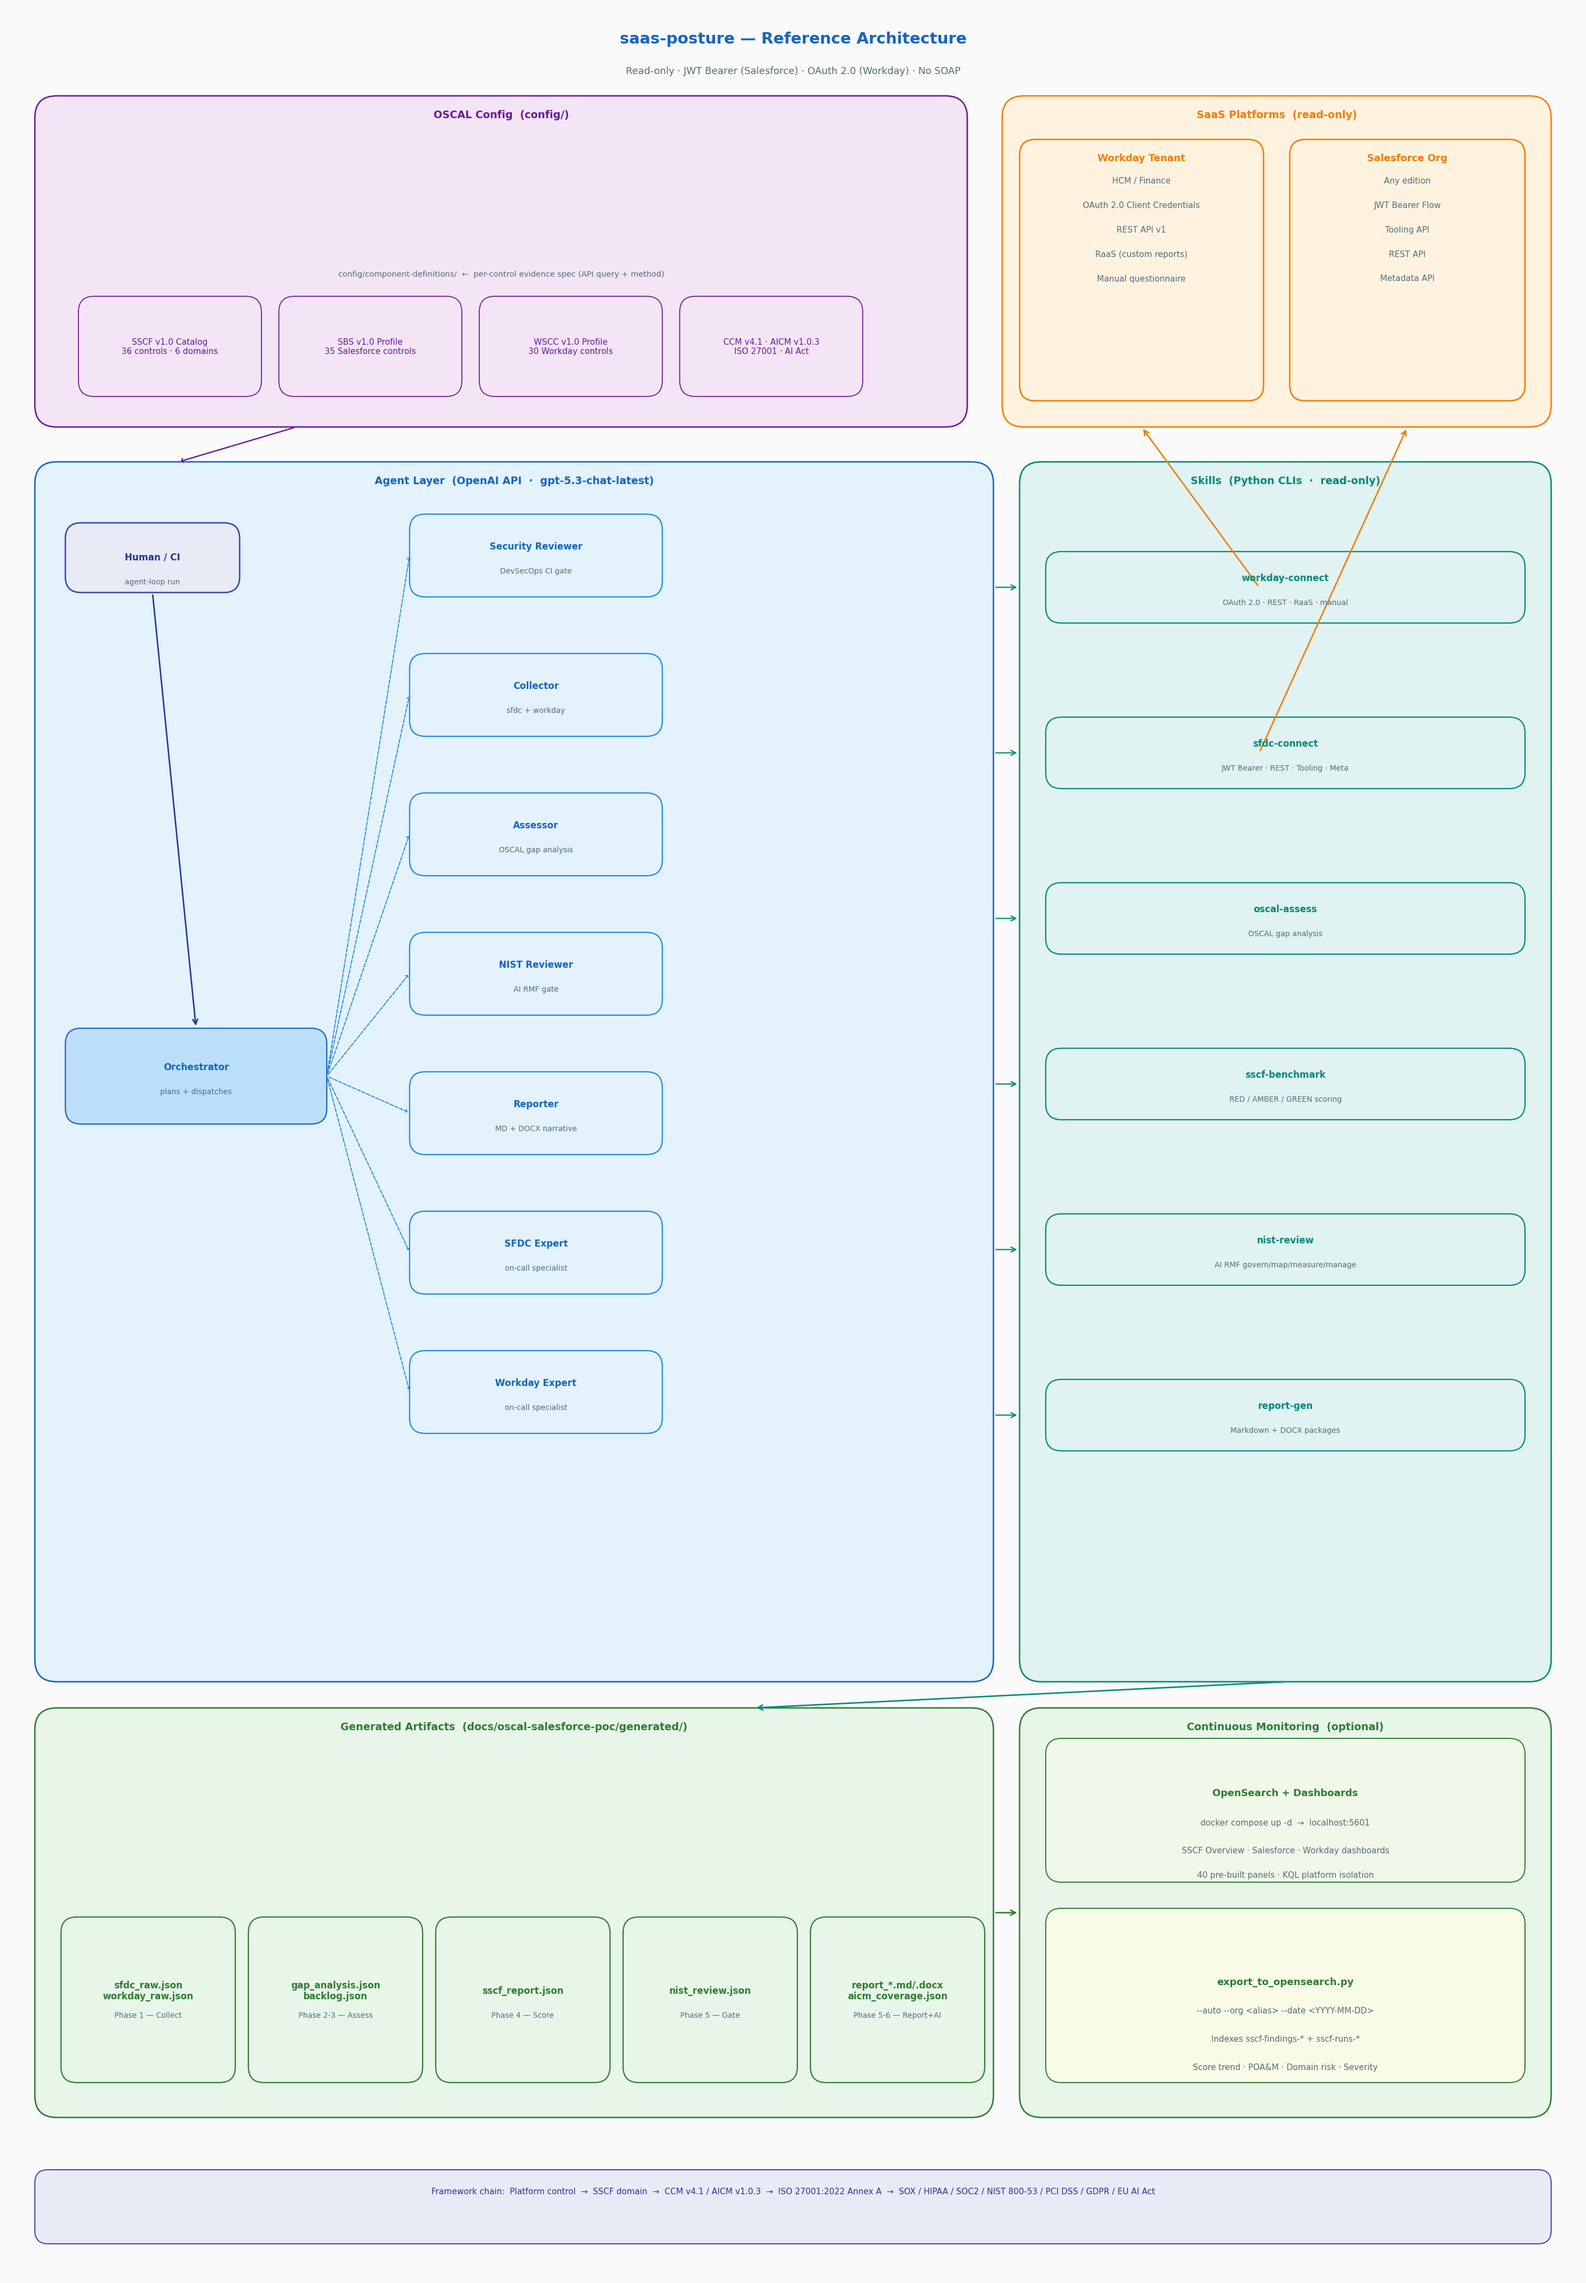
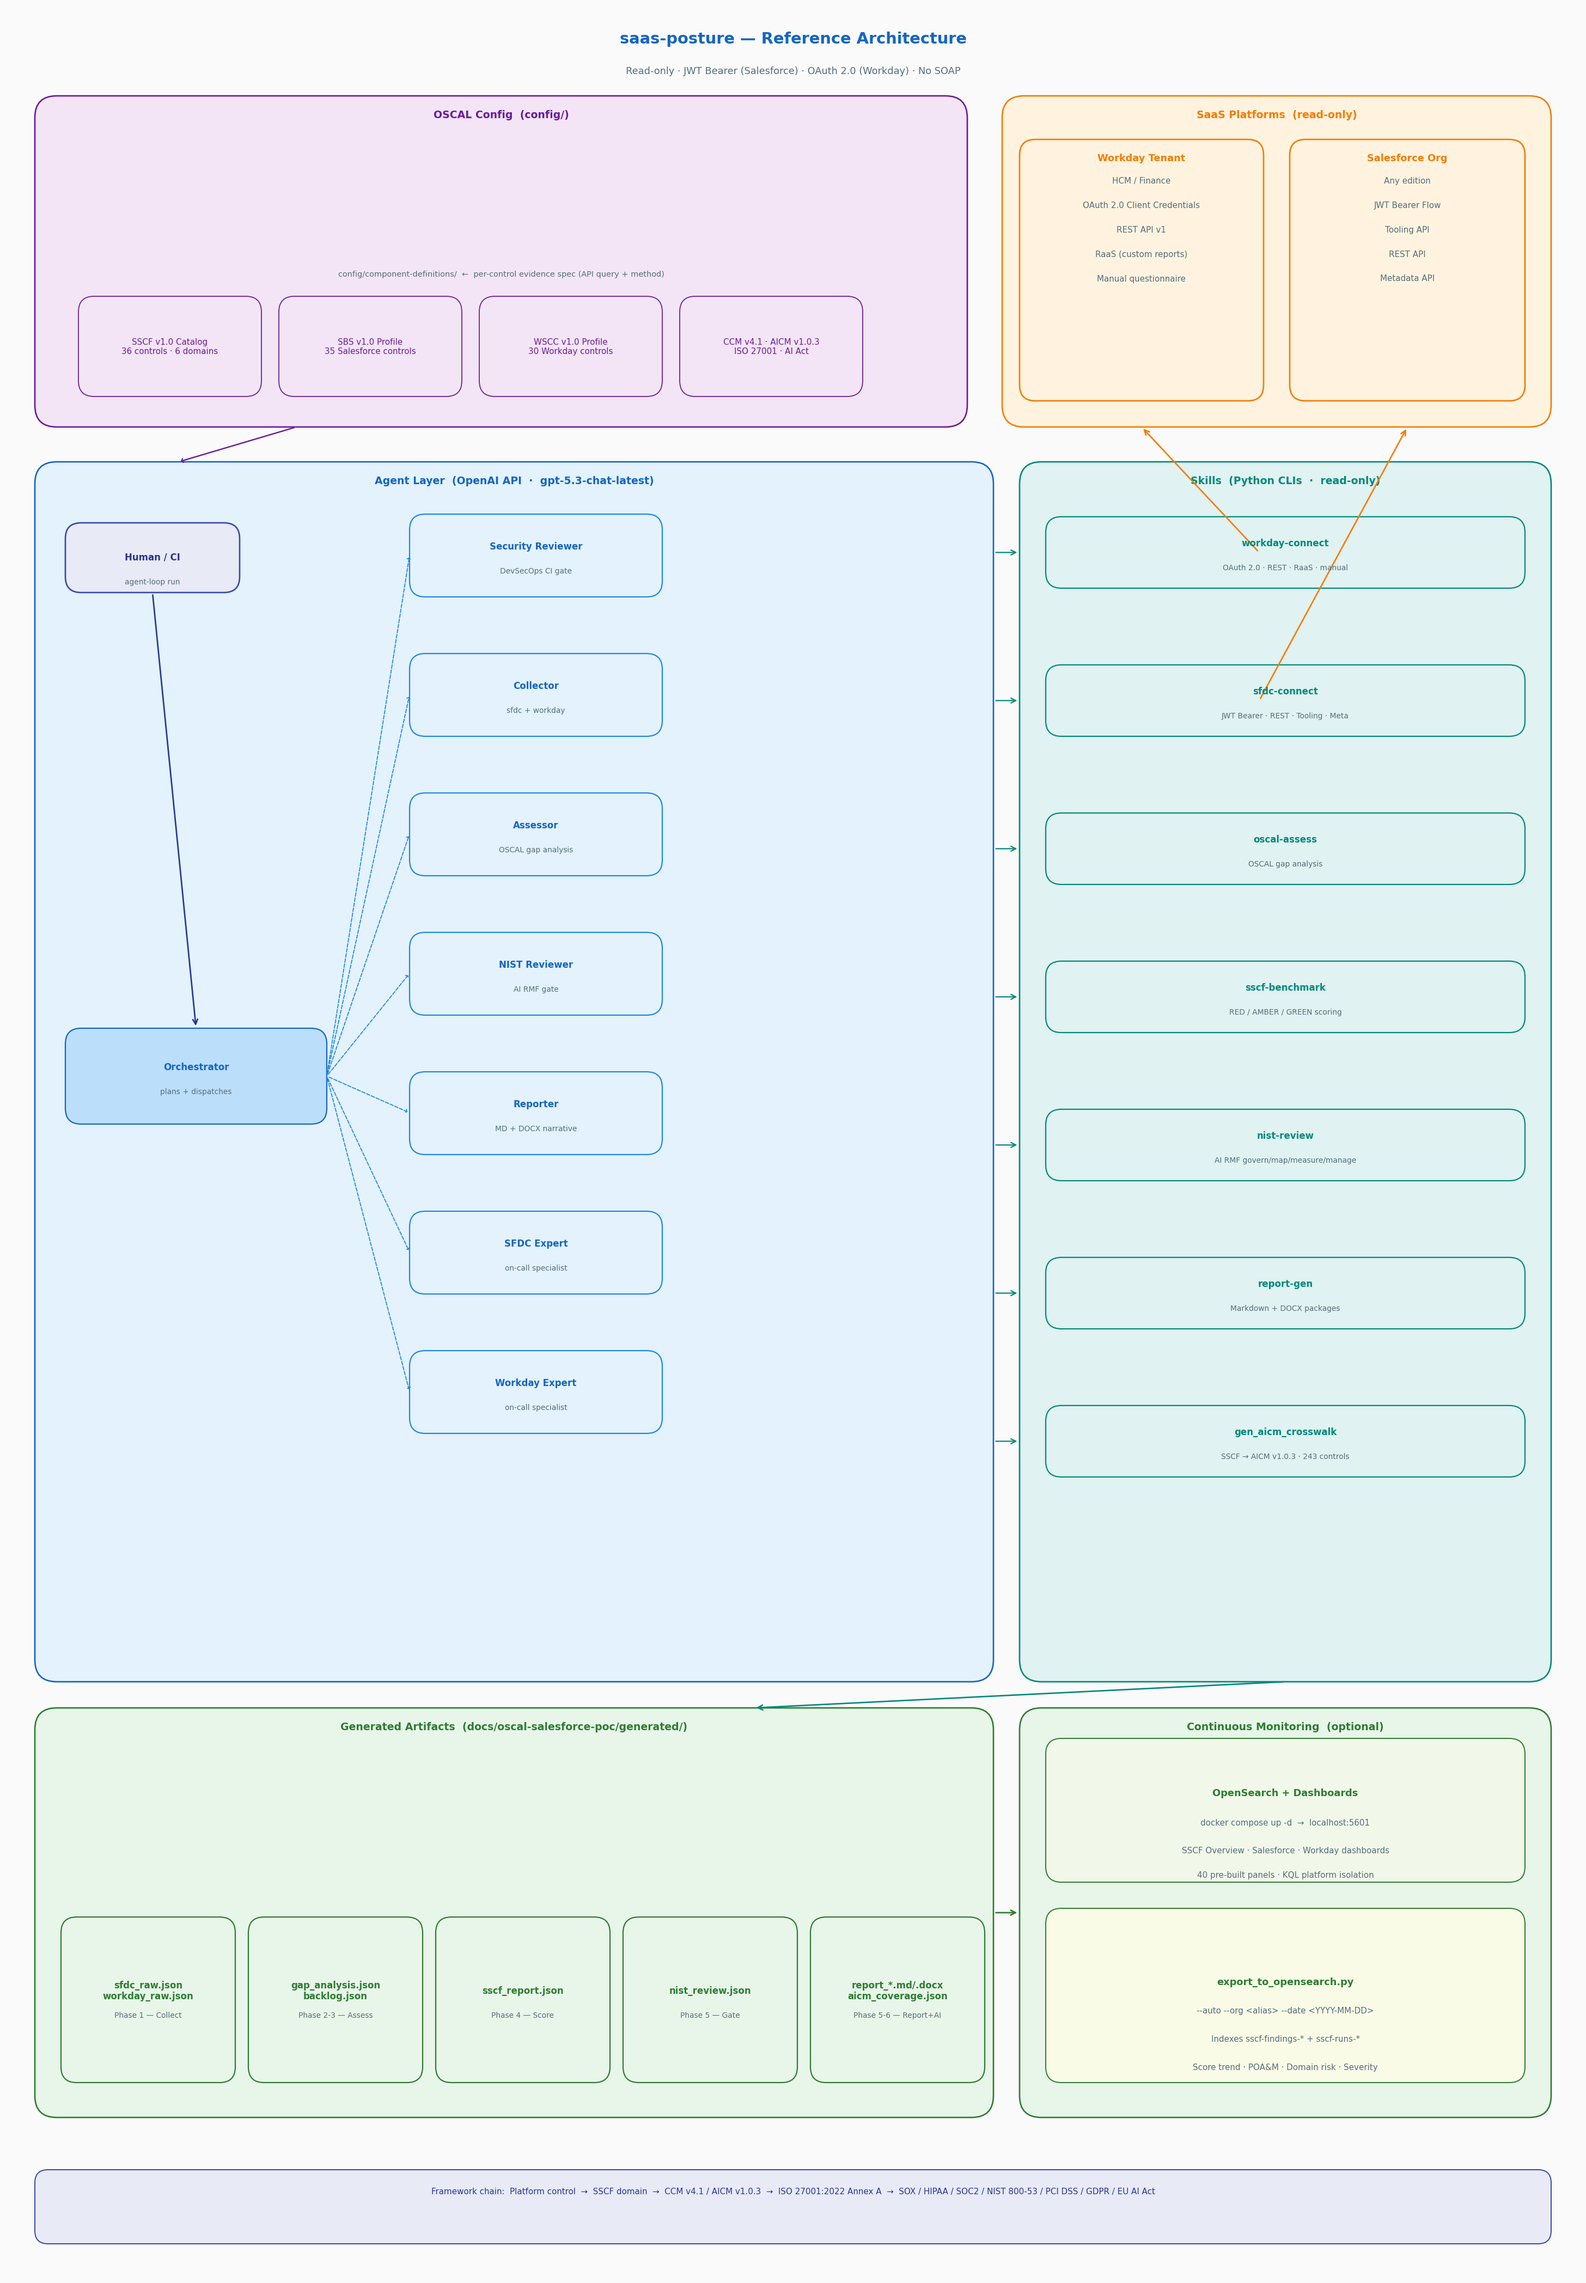
docs: add gen_aicm_crosswalk to architecture diagram + update ASCII pipeline
- gen_architecture_png.py: add gen_aicm_crosswalk as 7th skill box; rebalance
  skill y-positions; arrows updated to match
- docs/architecture.png: regenerated — now shows all 7 skills including AICM
- Architecture-Overview.md: ASCII system diagram updated to show 7-phase pipeline
  including Phase 5 OSCAL scripts (gen_poam, gen_assessment_results, gen_ssp)
  and gen_aicm_crosswalk; collector row updated to mention Workday; skills table
  gains gen_aicm_crosswalk row

diff --git a/scripts/gen_architecture_png.py b/scripts/gen_architecture_png.py
@@ -241,12 +241,13 @@ SEC4_X, SEC4_Y, SEC4_W, SEC4_H = 11.6, 6.8, 6.1, 14.0
 section(SEC4_X, SEC4_Y, SEC4_W, SEC4_H, "Skills  (Python CLIs  ·  read-only)", C_TEAL_LIGHT, C_TEAL, C_TEAL, 8.5)
 
 skills = [
-    ("workday-connect", "OAuth 2.0 · REST · RaaS · manual", 19.4),
-    ("sfdc-connect", "JWT Bearer · REST · Tooling · Meta", 17.5),
-    ("oscal-assess", "OSCAL gap analysis", 15.6),
-    ("sscf-benchmark", "RED / AMBER / GREEN scoring", 13.7),
-    ("nist-review", "AI RMF govern/map/measure/manage", 11.8),
-    ("report-gen", "Markdown + DOCX packages", 9.9),
+    ("workday-connect", "OAuth 2.0 · REST · RaaS · manual", 19.8),
+    ("sfdc-connect", "JWT Bearer · REST · Tooling · Meta", 18.1),
+    ("oscal-assess", "OSCAL gap analysis", 16.4),
+    ("sscf-benchmark", "RED / AMBER / GREEN scoring", 14.7),
+    ("nist-review", "AI RMF govern/map/measure/manage", 13.0),
+    ("report-gen", "Markdown + DOCX packages", 11.3),
+    ("gen_aicm_crosswalk", "SSCF → AICM v1.0.3 · 243 controls", 9.6),
 ]
 for name, sub, y_pos in skills:
     skill_box(SEC4_X + 0.3, y_pos - 0.45, 5.5, 0.82, name, sub)
@@ -302,12 +303,12 @@ label(SEC6_X + 3.05, SEC6_Y + 0.57, "Score trend · POA&M · Domain risk · Seve
 # ─────────────────────────────────────────────────────────────────────────────
 
 # Orchestrator ↔ skills (right)
-for y_pos in [19.4 - 0.04, 17.5 - 0.04, 15.6 - 0.04, 13.7 - 0.04, 11.8 - 0.04, 9.9 - 0.04]:
+for y_pos in [19.8 - 0.04, 18.1 - 0.04, 16.4 - 0.04, 14.7 - 0.04, 13.0 - 0.04, 11.3 - 0.04, 9.6 - 0.04]:
     arrow(SEC3_X + SEC3_W, y_pos, SEC4_X, y_pos, color=C_TEAL, lw=1.0)
 
 # Skills ↔ SaaS platforms
-arrow(SEC4_X + 2.75, 19.4 - 0.04, SEC1_X + 1.6, SEC1_Y, color=C_ORANGE, lw=1.2)  # workday-connect → Workday
-arrow(SEC4_X + 2.75, 17.5 - 0.04, SEC1_X + 4.65, SEC1_Y, color=C_ORANGE, lw=1.2)  # sfdc-connect → Salesforce
+arrow(SEC4_X + 2.75, 19.8 - 0.04, SEC1_X + 1.6, SEC1_Y, color=C_ORANGE, lw=1.2)  # workday-connect → Workday
+arrow(SEC4_X + 2.75, 18.1 - 0.04, SEC1_X + 4.65, SEC1_Y, color=C_ORANGE, lw=1.2)  # sfdc-connect → Salesforce
 
 # Config → Assessor / Collector (left)
 arrow(

diff --git a/docs/wiki/Architecture-Overview.md b/docs/wiki/Architecture-Overview.md
@@ -9,29 +9,30 @@
 ## System Diagram
 
 ```
-┌─────────────────────────────────────────────────────────────────────┐
-│        agent-loop (gpt-5.3-chat-latest orchestrator)                │
-│        OpenAI tool_use ReAct loop, max 14 turns                     │
-└──┬──────────┬──────────┬──────────┬──────────┬──────────┬───────────┘
+┌─────────────────────────────────────────────────────────────────────────────┐
+│         agent-loop  (gpt-5.3-chat-latest orchestrator)                      │
+│         OpenAI tool_use ReAct loop · max 14 turns · 9 agents                │
+└──┬──────────┬──────────┬──────────┬──────────┬──────────┬────────────────────┘
    │          │          │          │          │          │
- ┌─▼──────┐ ┌─▼──────┐ ┌─▼──────┐ ┌─▼──────┐ ┌─▼──────┐ ┌─▼──────────┐
- │sfdc-   │ │workday-│ │oscal-  │ │oscal_  │ │sscf-   │ │nist-       │
- │connect │ │connect │ │assess  │ │gap_map │ │bench-  │ │review      │
- │(collect│ │(collect│ │(assess)│ │ (map)  │ │mark    │ │(validate)  │
- │ SFDC)  │ │  WD)   │ │        │ │        │ │(score) │ │            │
- └────┬───┘ └────┬───┘ └────┬───┘ └────┬───┘ └────┬───┘ └──┬─────────┘
-      │          │          │           │          │          │
- sfdc_raw   workday_raw  gap_analysis backlog  sscf_report nist_review
-  .json       .json        .json       .json     .json       .json
-      └──────────┴──────────┴───────────┴──────────┘
-                                    │
-                          ┌─────────▼──────────┐
-                          │   report-gen        │
-                          │  (gpt-5.3-chat-     │
-                          │   latest)           │
-                          │  app-owner MD       │
-                          │  security MD + DOCX │
-                          └────────────────────┘
+   │ Phase 1  │ Phase 2  │ Phase 3  │ Phase 4  │Phase 5-6 │ Phase 5 (OSCAL docs)
+   ▼          ▼          ▼          ▼          ▼          ▼
+sfdc-      workday-   oscal-     oscal_    sscf-      nist-
+connect    connect    assess     gap_map   benchmark  review
+(SFDC)     (WD)       (assess)   (map)     (score)    (gate)
+   │          │          │           │          │          │
+sfdc_raw  workday_raw gap_analysis backlog  sscf_report nist_review
+ .json      .json       .json       .json     .json       .json
+   └──────────┴──────────┴───────────┴──────────┘
+                              │
+              ┌───────────────┼───────────────────────────────┐
+              │               │                               │
+    ┌─────────▼──────┐ ┌──────▼──────────┐ ┌────────────────▼──────┐
+    │   report-gen    │ │  gen_poam +     │ │  gen_aicm_crosswalk   │
+    │  app-owner MD   │ │  gen_assessment │ │  SSCF → AICM v1.0.3   │
+    │  security MD    │ │  _results +     │ │  243 controls         │
+    │  + DOCX         │ │  gen_ssp        │ │  18 domains           │
+    └─────────────────┘ │  (OSCAL 1.1.2)  │ │  aicm_coverage.json   │
+                        └─────────────────┘ └───────────────────────┘
 ```
 
 ---
@@ -43,7 +44,7 @@
 | Agent | Model | Role | Tools |
 |---|---|---|---|
 | `orchestrator` | gpt-5.3-chat-latest | Routes tasks, manages the ReAct loop, quality gates | All CLI tools |
-| `collector` | gpt-5.3-chat-latest | Extracts Salesforce org config via REST/Metadata API | sfdc-connect |
+| `collector` | gpt-5.3-chat-latest | Extracts Salesforce org config (REST/Metadata) and Workday config (OAuth 2.0/RaaS/REST) | sfdc-connect, workday-connect |
 | `assessor` | gpt-5.3-chat-latest | Maps findings to OSCAL/SBS/SSCF controls | oscal-assess, oscal_gap_map |
 | `reporter` | gpt-5.3-chat-latest | Generates DOCX/MD governance outputs | report-gen |
 | `nist-reviewer` | gpt-5.3-chat-latest | Validates outputs against NIST AI RMF | None (text analysis) |
@@ -72,6 +73,7 @@
 | `sscf-benchmark` | `skills/sscf_benchmark/sscf_benchmark.py` | Both | Maps findings to SSCF domains; calculates domain scores and overall posture (RED/AMBER/GREEN) |
 | `nist-review` | `skills/nist_review/nist_review.py` | Both | Validates assessment outputs against NIST AI RMF 1.0; issues pass/flag/block verdict |
 | `report-gen` | `skills/report_gen/report_gen.py` | Both | Generates audience-specific outputs: app-owner Markdown, security Markdown + DOCX |
+| `gen_aicm_crosswalk` | `scripts/gen_aicm_crosswalk.py` | Both | Maps SSCF findings to CSA AICM v1.0.3 (243 controls, 18 domains); produces `aicm_coverage.json` with per-domain posture and gap analysis |
 
 ---
 
